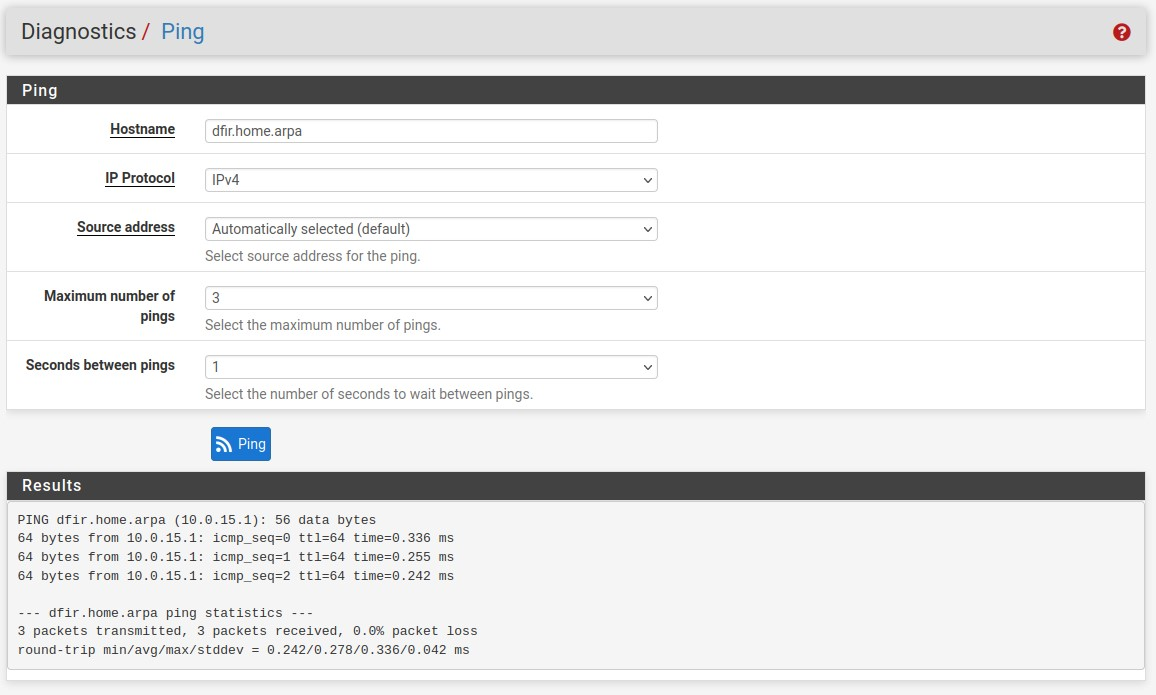
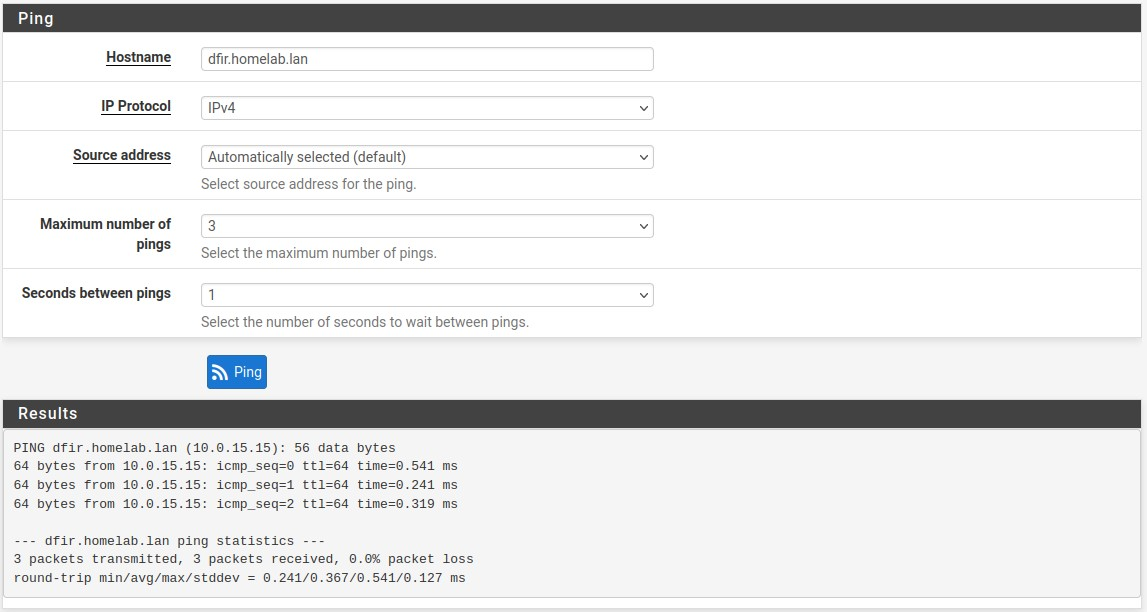
part 6

Changed region(s): [[0.0, 0.0, 1.0, 0.9935], [0.061, 0.2484, 0.1526, 0.2794]]

diff --git a/_posts/2024-09-11-building-homelab-pt5.md b/_posts/2024-09-11-building-homelab-pt5.md
@@ -13,17 +13,40 @@ To start, we will be installing a server that will handle active directory, DNS,
 The license key is embedded in the ISO file, which should work right out of the box without asking for a license. Some hypervisors, like vmware however, will create a floppy disk media by default, inside of which the Windows Server may look for the product key instead of looking inside of the ISO file. To fix this issue, ensure to delete any additional media aside from the ISO before booting the machine. Lastly, ensure that you download the Standard Desktop Experience version, unless you like working strictly from the command line.
 
 ## Configuration
+### Network and Hostname
 
+First we will set the VM network adapter to VLAN 11 and configure a static IP address.
 
 ![winServConf.jpg failed to load]({{ site.baseurl }}/assets/images/homelab/winServConf.jpg)
 
+I will also change hostname of the computer in settings, which will trigger a restart.
+
+![winServHostname.jpg failed to load]({{ site.baseurl }}/assets/images/homelab/winServHostname.jpg)
+
+
 ### Roles and Features
+In the server manager application, go to ```Manage > Add Roles and Features```. Accept the default settings until *Server Roles*. Once you get to *Server Roles*, select the following:
+* Active Directory Domain Service
+* DHCP Server
+* DNS Server
+* File and Storage Services
+* Remote Access
+
+Continue the process with default settings and install at the end. Once the install completes, there should be notifications for some reuqired configurations under the flag icon at the top. 
 
 ![serverManagerPostInstall.jpg failed to load]({{ site.baseurl }}/assets/images/homelab/serverManagerPostInstall.jpg)
 
+Start by hitting *Promote this server to a domain controller*.
+
+Add a new forest and enter the domain you've been using.
+
 ![ADDomain.jpg failed to load]({{ site.baseurl }}/assets/images/homelab/ADDomain.jpg)
 
+Enter the login credentials for the Administrator user and continue with default settings until the end.
+
 ![ADDomain2.jpg failed to load]({{ site.baseurl }}/assets/images/homelab/ADDomain2.jpg)
+
+After installation, the computer will restart automatically and you should see your domain on the login screen now.
 
 ![winServLogin.jpg failed to load]({{ site.baseurl }}/assets/images/homelab/winServLogin.jpg)
 
@@ -36,7 +59,7 @@ Now enter the name for the network with a description.
 
 ![winServDHCP2.jpg failed to load]({{ site.baseurl }}/assets/images/homelab/winServDHCP2.jpg)
 
-Next, for the range of IP addresses that DHCP can give out, I opted to use *10.0.11.51 - 10.0.11.150* with a 24 bit subnet mask. For the next 3 pages (Exclusions, Lease Duration, and Configure DHCP options), I will use the default values. I don't want to exlclude any IPs, the default 8 days for a DHCP lease is ok, and we will configure DHCP options now. Next I will set the default gateway address to the IP address of the windows server.
+Next, for the range of IP addresses that DHCP can give out, I opted to use *10.0.11.51 - 10.0.11.150* with a 24 bit subnet mask. For the next 3 pages (Exclusions, Lease Duration, and Configure DHCP options), I will use the default values. I don't want to exlclude any IPs, the default 8 days for a DHCP lease is ok, and we will configure DHCP options now. Next I will set the default gateway address to the IP address of the domain controller.
 
 ![winServDHCP3.jpg failed to load]({{ site.baseurl }}/assets/images/homelab/winServDHCP3.jpg)
 
@@ -48,3 +71,74 @@ Now you should see all of the information you filled out under the DHCP window.
 
 
 ### DNS
+First we are going to set up a reverse lookup zone. This basically means DNS will be given an IP address and return a domain name. In the server manager application, go to ```Tools > DNS```. Right click on *Reverse Lookup Zones* and create a new zone. Go with all default settings until prompted to enter an IP address, in which you will enter the network portion of your corporate lan IP. In my case, that is ```10.0.11```. Continue with defaults until completed.
+
+![reverseLookupZone.jpg failed to load]({{ site.baseurl }}/assets/images/homelab/reverseLookupZone.jpg)
+
+Next I will add a DNS entry for the firewall by right clicking on the domain name under *Forward Lookup Zones* and selecting *New Host*. 
+
+![newDNSEntry.jpg failed to load]({{ site.baseurl }}/assets/images/homelab/newDNSEntry.jpg)
+
+Enter a name and the corresponding IP address that points to the firewall. Also check *Create Associated Pointer (PTR Record)*. A PTR record is the exact opposite of an A record, meaning that it takes an IP address and returns a domain name.
+
+![newDNSEntry2.jpg failed to load]({{ site.baseurl }}/assets/images/homelab/newDNSEntry2.jpg)
+
+A quick nslookup command lets us check that these changes are working.
+
+![nslookupWinServ.jpg failed to load]({{ site.baseurl }}/assets/images/homelab/nslookupWinServ.jpg)
+
+### Static Routing
+Now, it's time to make this DC a routing point so that it can access the SIEM (which will be set up soon). In server manager, go to ```Tools > Routing and Remote Access```, right click the DC, and select *Configure and Enable Routing and Remote Access*. Continue through the wizard, and select *Custom* and then *LAN*.
+
+Next, right click *IPv4* under the DC, and add a static route towards the IP address that you want to assign to the SIEM.
+
+![remoteAccess.jpg failed to load]({{ site.baseurl }}/assets/images/homelab/remoteAccess.jpg)
+
+### Users and Groups
+For this next section, we will create a range of users. While some of these users will have good passwords, a few users will have weak passwords to simulate an insecure (and semi-realistic) security setup. 
+
+First we will disable the password complexity requirement on the windows server. In server manager, go to ```Tools > Group Policy Management```. Then, navigate to *Default Domain Policy* and edit it.
+
+![passwordSettings1.jpg failed to load]({{ site.baseurl }}/assets/images/homelab/passwordSettings1.jpg)
+
+Next, navigate to ```Computer Configuration > Policies > Windows Settings > Security Settings > Account Policies > Password Policy```. And adjust settings as preferred, which in my case, I will disable password complexity and reduce minimum characters to 5. 
+
+![passwordSettings2.jpg failed to load]({{ site.baseurl }}/assets/images/homelab/passwordSettings2.jpg)
+
+To reiterate, this is being done to simulate a bad password policy... please don't ever do this in a live setting.
+
+Now let's create our groups for our users. Go to ```Tools > Active Directory Users and Computers```, right click the name, and create a new organizational unit called *Groups*. Then right click *Groups* and create some groups with default settings. I will make *Marketing*, *HR*, and *IT*.
+
+![groups.jpg failed to load]({{ site.baseurl }}/assets/images/homelab/groups.jpg)
+
+Next let's create our users. On the same page under the domain, right click on *Users* and create a new user with whatever name you want. I will make some users with strong passwords, and some with bad common passwords from this [list](https://www.kaggle.com/datasets/wjburns/common-password-list-rockyoutxt). Set passwords to never expire and make sure you make at least 5 users.
+
+![newUser.jpg failed to load]({{ site.baseurl }}/assets/images/homelab/newUser.jpg)
+
+Now add each user to a group and make sure one user is also in the Administrator group. To add a user to a group, just right click a user, select *Add to a Group* and just type the group name in.
+
+### Local Admin Policy
+We will now create a local admin policy so that a local admin account can manage host devices. In Server manager, go to ```Tools > Group Policy Management```. Right click your domain and select *Create a GPO in this domain...* and name it Local Admin GPO.
+
+![localAdmin1.jpg failed to load]({{ site.baseurl }}/assets/images/homelab/localAdmin1.jpg)
+
+Now edit it and navigate to ```Computer Configuration > Policies > Windows Settings > Security Settings > Restricted Groups```. Create a new group here, which I will name *Local Administrators - Workstations* but choose whatever you would like. Add at least one user in here.
+
+![localAdmin2.jpg failed to load]({{ site.baseurl }}/assets/images/homelab/localAdmin2.jpg)
+
+### Shared Folder
+The last step is to create a shared folder. This folder will support SMBv1, which is an insecure version of the SMB protocol that should be avoided. We will do this to test tools that should detect SMBv1 to avoid its use.
+
+In the C: drive, create the following folder hierarchy, but with your own group names.
+``` 
+"C:"
+|-- "sharedFolder"
+    |-- "Marketing"
+    |-- "IT"
+    |-- "HR"
+```
+
+Now we will share these folders with the groups we made. Right click the *HR* folder and select *Properties*. Go to *Sharing* and add the HR group with read/write permissions. Now do this for the all the subfolders of *sharedFolder* with the corresponding groups.
+
+![sharedFolder.jpg failed to load]({{ site.baseurl }}/assets/images/homelab/sharedFolder.jpg)
+

diff --git a/_posts/2024-09-11-building-homelab-pt4.md b/_posts/2024-09-11-building-homelab-pt4.md
@@ -9,7 +9,7 @@ For part 4 of building this homelab environment, we will focus on setting up our
 
 When it comes to building our isolated network for malware anaylsis, it is extremely important that we can analyze malicious files without any risk of the malware spreading to other virtual machines or your host machine outside of the contained VLAN. Oftentimes, malware will also try and establish a connection with other IPs over the internet, which is why it is so important that the malware is only allowed to run in an environment that is completed isolated from public internet connectivity.
 
-### Windows MA
+## Windows MA
 To handle malware anaylsis, we will be using Windows 10 with an MA distribution called [FlareVM](https://github.com/mandiant/flare-vm) installed on top of it. You can use Microsoft's [media creation tool](https://www.microsoft.com/en-us/software-download/windows10) to create a disk image of Windows, even if you don't have a valid license. Without a license, some personalization settings will be disabled, but this is not important for our use-case. 
 
 During the creation, ensure that the windows machine has at least 80GB of storage. Once you have downloaded FlareVM from github, it is highly advised that you create a snapshot of Windows because any errors during the long installation process of FlareVM will likely leave you with a broken version of Windows, in which case simply reverting back the snapshot will save you lots of time.
@@ -24,32 +24,27 @@ The installation process is quite long and can take up to a few hours to fully c
 
 ![flareVMDesktop.jpg failed to load]({{ site.baseurl }}/assets/images/homelab/flareVMDesktop.jpg)
 
-Now that the installation is complete, the last step before this machine is ready to perform MA is to find a way to safely send malware to this machine. If this machine had internet connectivity you could just download malicous files online, but this is generally a bad idea. Instead, we will open an SSH server on the receiving machine so that the machine sending files can use the SFTP protocol to transfer malware without going over the public internet. 
-
- We will need a way for this machine to receive files over SFTP, for which we will install OpenSSH to host an SSH server. To do this, open settings and go to ```System > Optional Features > Add a Feature``` and install OpenSSH Server. We will configure and test these tools at the end of this post.
-
-![optionalFeatures.jpg failed to load]({{ site.baseurl }}/assets/images/homelab/optionalFeatures.jpg)
-
 ### FlareVM Network Configuration
-Once OpenSSH is installed, we can change the VM interface to our isolated VLAN 19 and configure a static IP address for the machine.
+Now that the install is complete, we will change the VM interface to our isolated VLAN 19 and configure a static IP address for the machine.
 
 > Side note: if you run ```ipconfig``` in command prompt and see an "autoconfiguration IPv4 address" being assigned instead of the static one you set, you likely chose a static IP that was already reserved for another device.
 
 ![flareVMNetwork.jpg failed to load]({{ site.baseurl }}/assets/images/homelab/flareVMNetwork.jpg)
 
 
-### Linux MA
+## Linux MA
 Next, we will set up our Linux VM to handle malware anaylsis. For this purpose, we will use [REMnux](https://remnux.org/). The installation of REMnux is pretty simple, and should be fairly quick as well since it is a lightweight OS. 
 
 Once REMnux is installed, ensure that it is connected to the internet so that we can apply any updates using the commands ```sudo apt update``` and ```sudo apt upgrade -y```. We will also install OpenSSH on this machine using ```sudo apt-get install ssh``` and ```sudo apt-get install openssh-server```.  
 
-Once these commands have successfully ran, switch the interface to VLAN 19. Next, we will configure a static IP and a gateway for this machine. To do this, edit the file ```/etc/netplan/01-netcfg.yaml``` so that it has a static IP and the proper gateway, as well as your chosen domain name. You may need to add new lines for most of the fields seen below.
+### Remnux Network Configuration
+Once all the commands have successfully ran, switch the interface to VLAN 19. Next, we will configure a static IP and a gateway for this machine. To do this, edit the file ```/etc/netplan/01-netcfg.yaml``` so that it has a static IP and the proper gateway, as well as your chosen domain name. You may need to add new lines for most of the fields seen below.
 
 ![remnuxNetConf.jpg failed to load]({{ site.baseurl }}/assets/images/homelab/remnuxNetConf.jpg)
 
 Lastly, input ```sudo netplan apply``` to apply the changes from that file.
 
-### SFTP Testing
+## SFTP Testing
 Now that both machines are on the same VLAN, we can begin using SFTP to transfer files. Start with opening the SSH server on Remnux using ```service ssh start```. The default password for this machine is "malware". You may notice when running ```service ssh status``` that the server is listening on ```0.0.0.0```, which just means that it is listening using all of the IP addresses on the local machine, which in my case is only ```10.0.19.19```.
 
 ![openSSHRemnux.jpg failed to load]({{ site.baseurl }}/assets/images/homelab/openSSHRemnux.jpg)
@@ -73,7 +68,7 @@ In this example, I connected to the SSH server and listed the local and remote p
 Now both of our MA machines are completely set up and ready to transfer files between each other on their own isolated VLAN.
 
 
-### Downloads Used for This Part
+## Downloads Used for This Part
 * [Download Windows](https://www.microsoft.com/en-us/software-download/windows10)
 * [Remove Windows Defender](https://github.com/ionuttbara/windows-defender-remover)
 * [Download FlareVM](https://github.com/mandiant/flare-vm)

diff --git a/_posts/2024-09-04-building-homelab-pt2.md b/_posts/2024-09-04-building-homelab-pt2.md
@@ -28,7 +28,7 @@ At the top navbar go to Interfaces/Interface Assignments. Here we will configure
 ### Basic Configuration
 Go to ```System > General Setup```. Here, we will set a few basic configurations:
 - Hostname: Set to whatever you’d like
-- Domain: I will keep the default “home.arpa” but this can be any domain you’d like
+- Domain: I will use "homelab.lan" but you can use almost any domain name. Don't use the default "home.arpa" due to a really niche issue much later where a windows server has issues with that domain.
 - DNS Servers: I will use Google’s DNS service with 8.8.8.8 and 8.8.4.4, but feel free to use any DNS server you would like
 - Timezone: Etc/UTC
 
